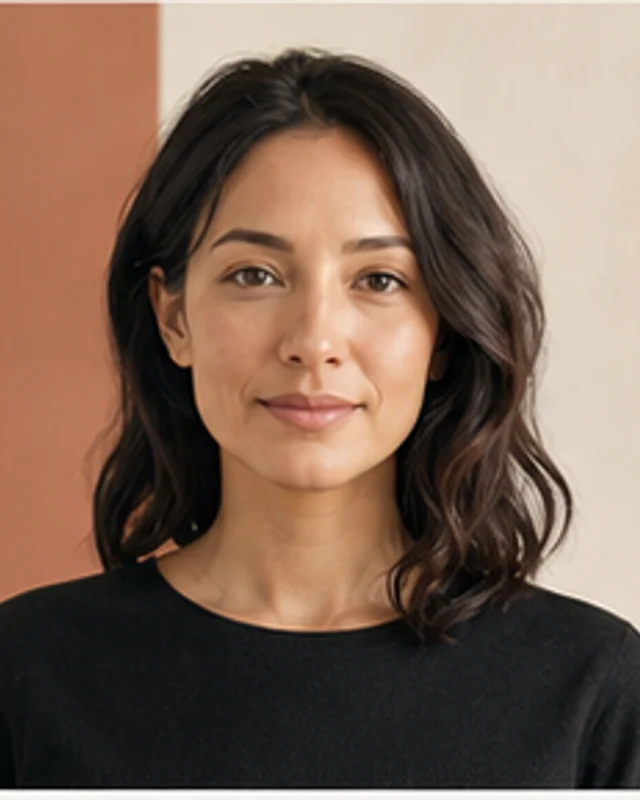
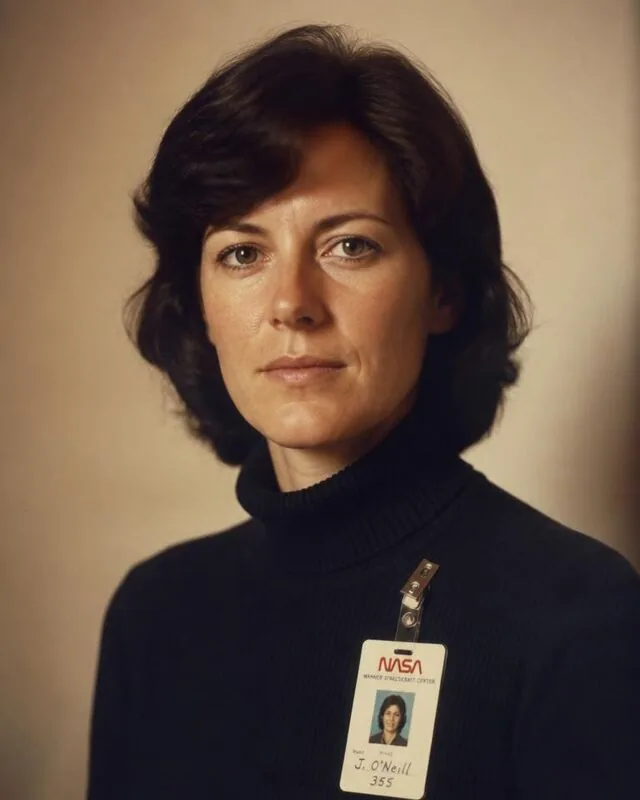
Restore canonical homepage persona portraits
Restore the exact canonical Maya, Simon, Akiko, Nick and Customer assets from the earlier ctrl+love project; restore earlier characterful portraits for the remaining selected personas; keep Lila unchanged; remove the PROMPTS period collision.

diff --git a/src/app/room-personas-data.ts b/src/app/room-personas-data.ts
@@ -36,7 +36,7 @@ export const coreRoomPersonas: RoomPersona[] = [
     line: "Sees the cost of being wrong.",
     contribution:
       "Tests whether the recommendation can survive budget, timing and commercial reality.",
-    portrait: "/room/personas/nick-deckman.jpg",
+    portrait: "/room/personas/nick-deckman.webp",
     portraitPosition: "50% 39%",
   },
   {
@@ -46,7 +46,7 @@ export const coreRoomPersonas: RoomPersona[] = [
     line: "Spots what others miss.",
     contribution:
       "Reads the cultural risk, memory and meaning surrounding the decision.",
-    portrait: "/room/personas/lexi-arden.jpg",
+    portrait: "/room/personas/lexi-arden.webp",
     portraitPosition: "50% 40%",
   },
   {
@@ -56,7 +56,7 @@ export const coreRoomPersonas: RoomPersona[] = [
     line: "Looks beyond the next decision.",
     contribution:
       "Keeps the room honest about second-order effects, unintended consequences and future regret.",
-    portrait: "/room/personas/akiko-hayashi.jpg",
+    portrait: "/room/personas/akiko-hayashi.webp",
     portraitPosition: "50% 40%",
   },
   {
@@ -66,7 +66,7 @@ export const coreRoomPersonas: RoomPersona[] = [
     line: "Tests what survives outside the room.",
     contribution:
       "Pushes the idea against operational pressure, customer behavior and messy reality.",
-    portrait: "/room/personas/adrian-mbeki.jpg",
+    portrait: "/room/personas/adrian-mbeki.webp",
     portraitPosition: "50% 38%",
   },
   {
@@ -141,7 +141,7 @@ export const supportingRoomPersonas: RoomPersona[] = [
     line: "Recognizes patterns that have appeared before.",
     contribution:
       "Reminds the Room what history is trying to teach.",
-    portrait: "/room/personas/vera-elise-hartmann.jpg",
+    portrait: "/room/personas/vera-elise-hartmann.webp",
     portraitPosition: "50% 39%",
   },
   {
@@ -171,7 +171,7 @@ export const supportingRoomPersonas: RoomPersona[] = [
     line: "Detects the questions nobody has fully asked yet.",
     contribution:
       "Surfaces emotional signals and unfinished thinking before they disappear.",
-    portrait: "/room/personas/wade-ellison.jpg",
+    portrait: "/room/personas/wade-ellison.webp",
     portraitPosition: "50% 39%",
   },
   {

diff --git a/src/app/page.tsx b/src/app/page.tsx
@@ -615,7 +615,7 @@ export default function Home() {
         <div className={styles.shoppeGrid}>
           <div className={styles.shoppeCopy}>
             <p className={styles.kicker}>SAN GREGORIO / CALIFORNIA</p>
-            <h2 id="shoppe-title">BRING IN<br />YOUR OLD<br />PROMPTS.</h2>
+            <h2 id="shoppe-title">BRING IN<br />YOUR OLD<br />PROMPTS</h2>
             <p>Put one under load. Extract what it smuggles in. Find the decision it is actually trying to make.</p>
             <Link href="/prompt-shoppe/">OPEN THE SHOPPE ↗</Link>
           </div>
